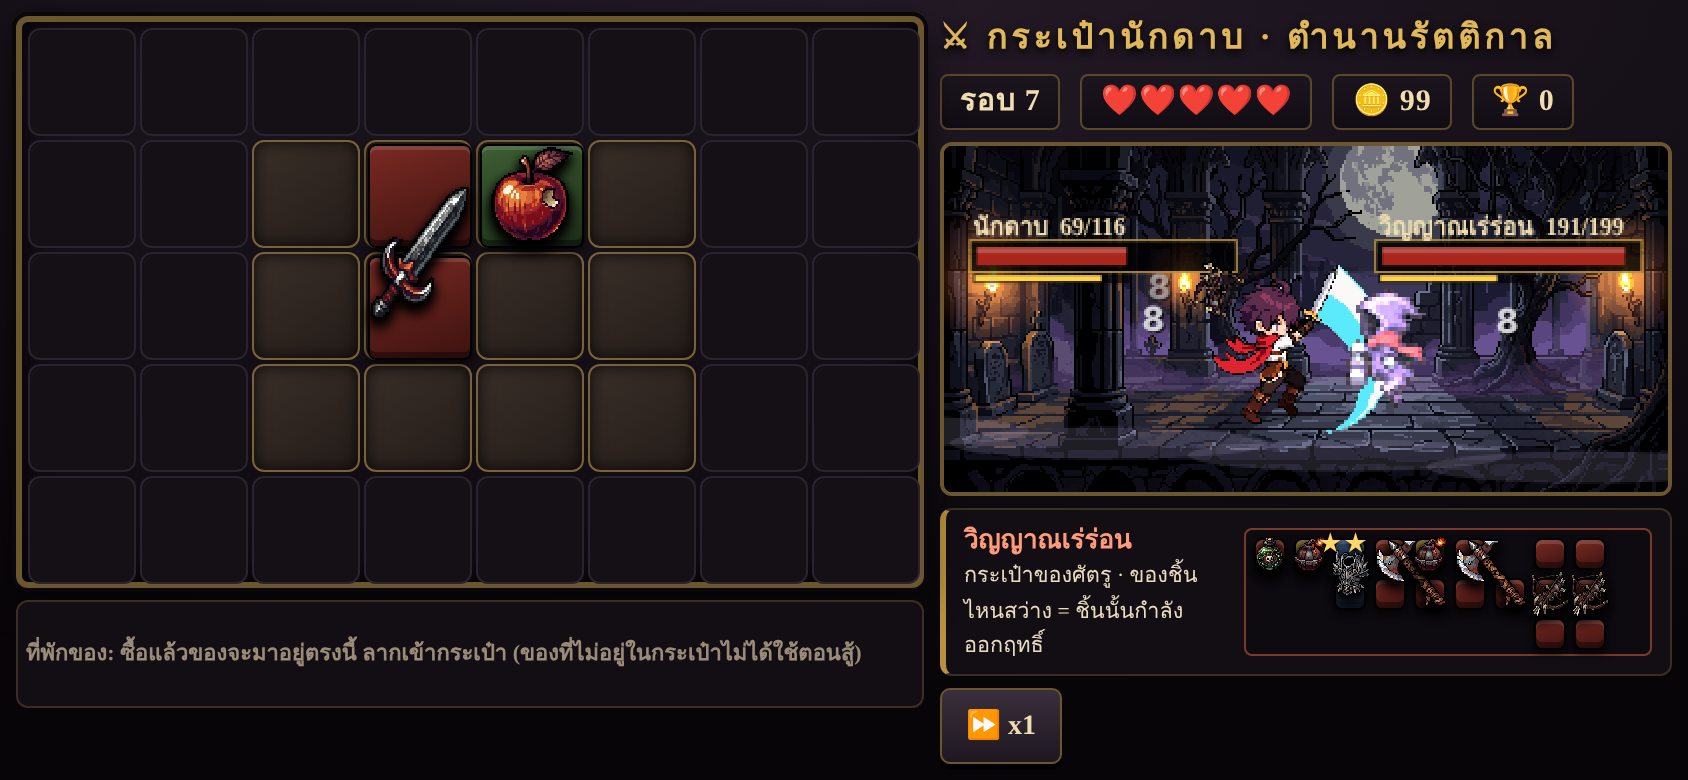
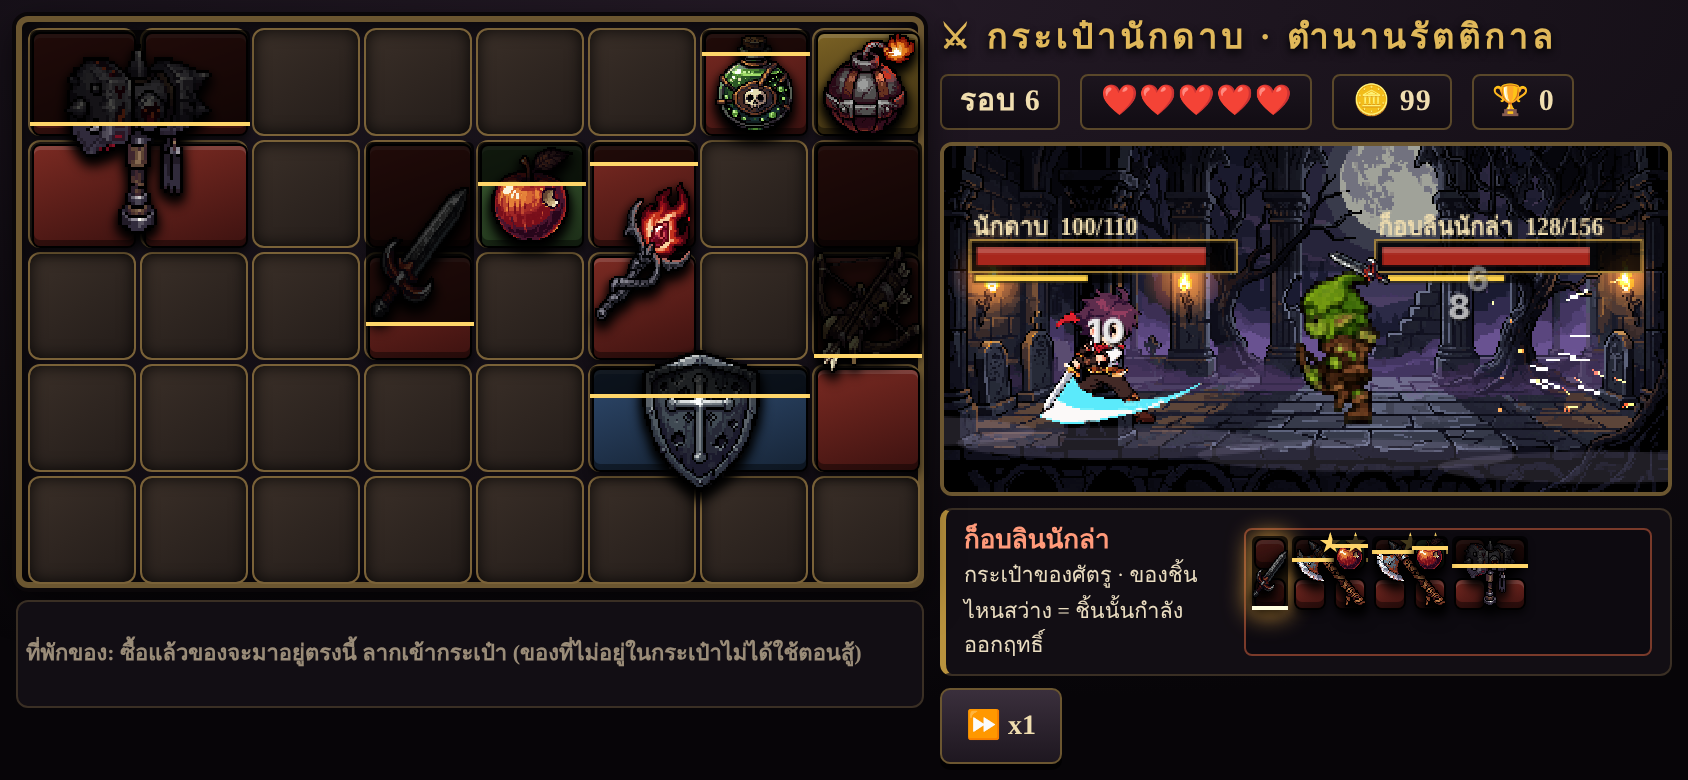
bag.html: cooldown shade on every working item, weapon / status effects from our fx sheets
Claude-Session: https://claude.ai/code/session_01TXxUxQ6wjWh66ESj3NLopA

diff --git a/bag.html b/bag.html
@@ -59,6 +59,7 @@ button{font-family:inherit;background:linear-gradient(#3a2f3c,#1e1720);border:1p
 h1{margin:0;font-size:17px;color:#e0b85a;letter-spacing:2px;text-shadow:0 2px 4px #000}
 .ico{display:inline-block;background:url(art/bag/icons.png) 0 0/800% 300% no-repeat;image-rendering:pixelated;vertical-align:middle;filter:drop-shadow(0 2px 2px #000)}
 .it b .ico{filter:drop-shadow(0 3px 3px #000c)}
+.it s{position:absolute;left:1px;right:1px;top:1px;background:#000b;border-bottom:2px solid #ffd66a;pointer-events:none;text-decoration:none;border-radius:3px 3px 0 0}.it s.wait{border-bottom-color:#ff5a3a;background:#3a0808b0}
 </style></head><body>
 <div id="app"><div id="left"><div id="grid"></div><div id="tray"></div></div>
 <div id="right"><h1>⚔ กระเป๋านักดาบ · ตำนานรัตติกาล</h1><div id="top"></div><div id="shop"></div><div id="arena"><canvas id="cv"></canvas><div id="foe"></div></div>
@@ -101,6 +102,9 @@ Object.keys(IT).forEach((k,i)=>{IT[k].id=k;IT[k].i=i});const ico=(id,px)=>{const
 const ICON=new Image();ICON.src='art/bag/icons.png';const ARENA=new Image();ARENA.src='art/bag/arena.png';
 const LM=[0,1,1.55,2.3,3],FOES=[['shroom','เห็ดต้องสาป'],['wolf','หมาป่าเงา'],['goblin_archer','ก็อบลินนักล่า'],['wisp','วิญญาณเร่ร่อน'],['skeleton','อัศวินกระดูก'],['boar_guard','องครักษ์อสูร'],['golem','โกเลมสุสาน']];
 const MOB={wolf:[50,38,6],shroom:[30,27,6],skeleton:[54,51,6],boar_guard:[74,69,6],goblin_archer:[45,41,6],golem:[80,70,6],wisp:[36,35,6]};
+// weapon effects: sprite sheets we already own in fx/ (manifest.json gives cell size, frames, anchor); drawn on the fighter that is hit / helped
+const FXI={},FXM={};fetch('fx/manifest.json').then(r=>r.json()).then(m=>{for(const k of['hit','crit','blunt','toxic','healring','cshield','blast','cfire0','gslam','zapice','blindstars','spark','poof']){FXM[k]=m[k];FXI[k]=new Image();FXI[k].src='fx/'+k+'.png'}});
+const WFX={dagger:['hit',1.5],sword:['hit',2],bow:['spark',1.6],axe:['crit',1.5],hammer:['gslam',2.2],wand:['blast',1.5],poison:['toxic',.9],bomb:['blast',3]};
 const FB=20,MELEE={dagger:[15,16,17],sword:[14,15,16,17],axe:[28,29,30,31],hammer:[39,40,41,42]},SPIN=[125,126,127,128,129,130];   // hero clips used for his own weapons: cells of chibi_pl.png (10+n = combo frame n, 120+ = spin)
 const GW=8,GH=5;let CS=52,G,UID=1,sel=null,spd=+(localStorage.getItem('bag.spd')||1),BT=null;
 const rot=(sh,r)=>{let c=sh.map(p=>p.slice());for(let i=0;i<r;i++)c=c.map(([x,y])=>[-y,x]);const mx=Math.min(...c.map(p=>p[0])),my=Math.min(...c.map(p=>p[1]));return c.map(([x,y])=>[x-mx,y-my])};
@@ -189,15 +193,18 @@ $('#rr').onclick=()=>{roll();draw()};$('#spd').onclick=()=>{spd=spd===1?2:spd===
 // ---- battle
 const HERO=new Image();HERO.src='art/poses/combo/chibi_pl.png';const MIM={};for(const k in MOB){MIM[k]=new Image();MIM[k].src='art/td/map1/mob_'+k+'.png'}
 function startBattle(){const mine=G.items.filter(o=>o.bag);if(!mine.some(o=>IT[o.id].t==='w'))return say('⚠ ในกระเป๋าไม่มีอาวุธเลย! ใส่อาวุธ (สีแดง) อย่างน้อย 1 ชิ้นก่อน');sel=null;
- BT={A:build(mine,74+G.round*6),B:foe(G.round),T:0,fx:[],pj:[],sh:0,an:null,ha:0,ea:0,hh:0,eh:0,done:0};draw();$('#foe').innerHTML='';say(`<div style="display:flex;gap:12px;align-items:center"><div style="flex:1"><b style="color:#ff9a7a">${BT.B.name}</b><br><small>กระเป๋าของศัตรู · ของชิ้นไหนสว่าง = ชิ้นนั้นกำลังออกฤทธิ์</small></div><div id="fbag" style="position:relative;flex:0 0 ${FB*10+4}px;height:${FB*3+4}px;background:#0d0a10;border:1px solid #7a3a2a;border-radius:4px"></div></div>`);
+ BT={A:build(mine,74+G.round*6),B:foe(G.round),T:0,fx:[],pj:[],sh:0,an:null,vf:[],ha:0,ea:0,hh:0,eh:0,done:0};draw();$('#foe').innerHTML='';say(`<div style="display:flex;gap:12px;align-items:center"><div style="flex:1"><b style="color:#ff9a7a">${BT.B.name}</b><br><small>กระเป๋าของศัตรู · ของชิ้นไหนสว่าง = ชิ้นนั้นกำลังออกฤทธิ์</small></div><div id="fbag" style="position:relative;flex:0 0 ${FB*10+4}px;height:${FB*3+4}px;background:#0d0a10;border:1px solid #7a3a2a;border-radius:4px"></div></div>`);
  for(const o of BT.B.list)if(!o.hide){const el=itemEl(o,FB);el.style.left=o.x*FB+2+'px';el.style.top=o.y*FB+2+'px';$('#fbag').appendChild(el)}last=0;requestAnimationFrame(loop)}
 let last=0;function loop(t){if(!BT)return;const dt=Math.min(.05,(t-last)/1000||0)*spd;last=t;const b=BT,ev=[];
  if(!b.done){let rem=dt;while(rem>0&&b.A.hp>0&&b.B.hp>0){const s=Math.min(.05,rem);tick(b.A,b.B,s,b.T,ev);b.T+=s;rem-=s}
-  for(const e of ev){const tx=e.k==='heal'||e.k==='blk'?e.s:1-e.s;if(e.k==='hit'){if(e.s===0){b.ha=.25;b.eh=.2}else{b.ea=.25;b.hh=.2}if(e.big||e.crit)b.sh=.12;const src=(e.s?b.B.list:G.items).find(o=>o.u===e.u);if(src){const ml=!e.s&&MELEE[src.id];if(ml){if(!b.an||b.an.t>b.an.d*.55)b.an={seq:e.crit?SPIN:(src.id==='sword'&&Math.random()<.5?[23,24,25,26]:ml),t:0,d:e.crit?.42:.3}}else b.pj.push({s:e.s,i:IT[src.id].i,t:0})}}
+  for(const e of ev){const tx=e.k==='heal'||e.k==='blk'?e.s:1-e.s;if(e.k==='hit'){if(e.s===0){b.ha=.25;b.eh=.2}else{b.ea=.25;b.hh=.2}if(e.big||e.crit)b.sh=.12;{const it=(e.s?b.B.list:G.items).find(o=>o.u===e.u),fx=it&&WFX[it.id];if(fx){b.vf.push({k:fx[0],s:1-e.s,t:it&&MELEE[it.id]&&!e.s?-.12:-.2,sc:fx[1]});if(it.id==='hammer')b.vf.push({k:'blunt',s:1-e.s,t:-.1,sc:2});}if(e.crit)b.vf.push({k:'crit',s:1-e.s,t:-.12,sc:2})}const src=(e.s?b.B.list:G.items).find(o=>o.u===e.u);if(src){const ml=!e.s&&MELEE[src.id];if(ml){if(!b.an||b.an.t>b.an.d*.55)b.an={seq:e.crit?SPIN:(src.id==='sword'&&Math.random()<.5?[23,24,25,26]:ml),t:0,d:e.crit?.42:.3}}else b.pj.push({s:e.s,i:IT[src.id].i,t:0})}}
+   if(e.k==='blk')b.vf.push({k:'cshield',s:e.s,t:0,sc:1.6,up:1});if(e.k==='heal')b.vf.push({k:'healring',s:e.s,t:0,sc:.9});
    b.fx.push({x:tx?.74:.26,t:0,v:e.k==='miss'?'พลาด':e.k==='blk'?'🛡+'+e.v:e.k==='heal'?'+'+e.v:e.v,c:e.k==='heal'?'#9fe870':e.k==='blk'?'#8fc8ff':e.k==='dot'?'#c88cff':e.crit?'#ffd24a':'#fff',big:e.crit||e.big,dx:R(-.05,.05)});
    if(e.u){const el=document.querySelector(`[data-u="${e.u}"]`);if(el){el.classList.add('fire');setTimeout(()=>el.classList.remove('fire'),140)}}}
   if(b.A.hp<=0||b.B.hp<=0||b.T>90){b.done=1;b.win=b.A.hp>0&&(b.B.hp<=0||b.A.hp>=b.B.hp);setTimeout(endBattle,900/spd)}}
- for(const k of['ha','ea','hh','eh','sh'])b[k]=Math.max(0,b[k]-dt/spd);if(b.an){b.an.t+=dt/spd;if(b.an.t>=b.an.d)b.an=null}for(const pj of b.pj)pj.t+=dt/spd;b.pj=b.pj.filter(pj=>pj.t<.24);for(const f of b.fx)f.t+=dt/spd;b.fx=b.fx.filter(f=>f.t<.9);paint(t/1000);requestAnimationFrame(loop)}
+ for(const k of['ha','ea','hh','eh','sh'])b[k]=Math.max(0,b[k]-dt/spd);for(const v of b.vf)v.t+=dt/spd;b.vf=b.vf.filter(v=>{const m=FXM[v.k];return m&&v.t<m.n/m.fps});
+  for(const[f,root]of[[b.A,'#grid'],[b.B,'#fbag']])for(const w of f.its)if(w.cd){let el=w.el;if(el===undefined){const it=document.querySelector(`${root} [data-u="${w.u}"]`);el=w.el=it?it.appendChild(document.createElement('s')):null}if(el){el.style.height=Math.max(0,1-w.t/w.cd)*96+'%';el.className=w.t>=w.cd&&f.sta<w.sta?'wait':''}}   // cooldown shade on every working item: it drains, the item fires when it is gone (red = waiting for stamina)
+ if(b.an){b.an.t+=dt/spd;if(b.an.t>=b.an.d)b.an=null}for(const pj of b.pj)pj.t+=dt/spd;b.pj=b.pj.filter(pj=>pj.t<.24);for(const f of b.fx)f.t+=dt/spd;b.fx=b.fx.filter(f=>f.t<.9);paint(t/1000);requestAnimationFrame(loop)}
 function scene(g,W,H,now,boss){const gy=H*.8;
  if(ARENA.width){const k=Math.max(W/480,H/272),w=480*k,h=272*k,x0=(W-w)/2,y0=H-h;g.drawImage(ARENA,x0,y0,w,h);   // PixelLab backdrop (1 credit); torches flicker, fog drifts, boss rounds turn red
   g.globalCompositeOperation='lighter';for(const[tx,ty]of[[30,128],[158,128],[452,128]]){const fl=.7+.3*Math.sin(now*11+tx),rg=g.createRadialGradient(x0+tx*k,y0+ty*k,0,x0+tx*k,y0+ty*k,46*k*fl);rg.addColorStop(0,'rgba(255,150,60,.45)');rg.addColorStop(1,'rgba(255,90,20,0)');g.fillStyle=rg;g.fillRect(x0+(tx-50)*k,y0+(ty-50)*k,100*k,100*k)}g.globalCompositeOperation='source-over';
@@ -220,6 +227,10 @@ function paint(now){const cv=$('#cv'),r=cv.getBoundingClientRect(),W=cv.width=Ma
  for(const pj of b.pj){const k2=Math.min(1,pj.t/.22),x0=pj.s?W*.74:W*.26,x1=pj.s?W*.3:W*.7,x=x0+(x1-x0)*k2,y=gy-H*.3-Math.sin(k2*3.14)*H*.16;const z=H*.16;g.save();g.translate(x,y);g.rotate((pj.s?-1:1)*k2*5);if(ICON.width)g.drawImage(ICON,pj.i%8*64,(pj.i>>3)*64,64,64,-z/2,-z/2,z,z);g.restore()}
  if(b.B.boss&&b.B.hp>0){const a=g.createRadialGradient(W*.74,gy-H*.2,0,W*.74,gy-H*.2,H*.42);a.addColorStop(0,'rgba(255,60,30,'+(.3+.12*Math.sin(now*5))+')');a.addColorStop(1,'rgba(255,60,30,0)');g.fillStyle=a;g.fillRect(W*.5,0,W*.5,H)}
  const M=MOB[b.B.k],mi=MIM[b.B.k];if(mi.width){const s=k*(b.B.boss?2.6:1.9)*(b.B.hp<=0?.6:1),f=(now*8|0)%M[2],x=W*.74-(b.ea>0&&b.B.hp>0?Math.sin((1-b.ea/.25)*3.14)*W*.2:0)+(b.eh>0?W*.03*b.eh/.2:0);g.save();g.translate(x,gy);g.scale(-s,s);g.filter=b.eh>0?'brightness(2.6)':'brightness(.82) contrast(1.15)';g.globalAlpha=b.B.hp<=0?.4:1;g.drawImage(mi,f*M[0],0,M[0],M[1],-M[0]/2,-M[1],M[0],M[1]);g.restore()}
+{const dv=(v,X,Y)=>{const m=FXM[v.k],im=FXI[v.k];if(!m||!im.width||v.t<0)return;const f=Math.min(m.n-1,v.t*m.fps|0),z=v.sc*k*.75;g.drawImage(im,f%m.cols*m.w,(f/m.cols|0)*m.h,m.w,m.h,X-m.ax*z,Y-m.ay*z,m.w*z,m.h*z)};
+  g.globalCompositeOperation='lighter';for(const v of b.vf)dv(v,W*(v.s?.74:.26),gy-(v.k==='gslam'||v.k==='healring'?0:H*.16));g.globalCompositeOperation='source-over';
+  for(const[f,x]of[[b.A,W*.26],[b.B,W*.74]]){if(f.hp<=0)continue;if(f.stun>0)dv({k:'blindstars',t:now%1,sc:2.4},x,gy-H*.36);if(f.burn>0){g.globalCompositeOperation='lighter';dv({k:'cfire0',t:(now*1.3)%.4,sc:1.2+Math.min(1.5,f.burn*.15)},x+6,gy-H*.06);g.globalCompositeOperation='source-over'}
+   if(f.poi>0){g.fillStyle='#7fe04a';for(let i=0;i<4;i++){const q=(now*.9+i*.25)%1;g.globalAlpha=1-q;g.fillRect(x-14+i*9,gy-H*.1-q*H*.2,3,3)}g.globalAlpha=1}}}
  g.textAlign='center';for(const f of b.fx){g.font=`800 ${f.big?26:17}px system-ui`;g.globalAlpha=Math.max(0,1-f.t/.9);g.fillStyle='#000';g.fillText(f.v,W*(f.x+f.dx)+1,gy-70*k*.5-f.t*60+1);g.fillStyle=f.c;g.fillText(f.v,W*(f.x+f.dx),gy-70*k*.5-f.t*60)}g.globalAlpha=1;
  if(b.T>28&&!b.done){g.setTransform(1,0,0,1,0,0);g.font='700 13px Georgia,serif';g.fillStyle='#ffb0a0';g.fillText('⏳ เหนื่อยล้า! ทั้งคู่เสียเลือดเรื่อยๆ',W/2,H*.16)}}
 function endBattle(){const b=BT;BT=null;const win=b.win,pig=G.items.filter(o=>o.bag&&IT[o.id].gold).reduce((s,o)=>s+o.lv,0),inc=9+Math.min(6,G.round>>1)+(win?2:0)+pig;let h;

diff --git a/docs/action-game.md b/docs/action-game.md
@@ -1201,3 +1201,4 @@ Not done: sound, enemy bag shown as a grid, item unlocks between runs, more enem
 bag.html dark fantasy pass (owner, going to sleep: "แนวต่อสู้นะ backpack · ทำสวยๆ น่าเล่นด้วย · อาร์ตดีๆ · ดาร์กแฟนตาซี"): free skin only, NO PixelLab (no "เจน" was said): near-black / iron / old-gold panels, serif type, bevelled item tiles in dark jewel colours, rarity glows; the arena is painted by code (`scene`: night sky, moon, stars, broken pillars, flickering torches, drifting fog; red sky + aura on boss rounds); the item that acts flies across as a spinning projectile, shake on big hits, darker monsters, dark-fantasy names (ตำนานรัตติกาล). Still emoji for the item icons = the weak point for "good art". Proposal waiting for the owner's "เจน": 24 item icons as dark-fantasy pixel art with `create_image_pixen` 64x64, no background, 1 credit each = 24 credits, plus 1-2 for an arena backdrop; standard mode only.
 bag.html now uses the generated art: `ico(id, px)` = a sprite from `art/bag/icons.png` (bag tiles, shop cards, info line, enemy item list, flying projectiles), `art/bag/arena.png` as the battle backdrop with code torch flicker / fog / red multiply on boss rounds (the code-painted scene stays as a fallback). Hero and monsters unchanged. Still open: the hero's real combo in the fight, the enemy's bag shown as a grid, sound, human play-testing of the difficulty.
 bag.html fight pass (owner "ทำข้อ 2 กับ 3 ต่อเลย", free): (2) his melee items (dagger, sword, axe, hammer; `MELEE`) make the swordsman dash at the enemy and play a matching slash from his PixelLab combo (`b.an`: side slash / rising cut / overhead chop / finisher; a crit plays the spin clip `SPIN`), with PixelLab's own arcs; ranged and thrown items still fly as icons; the enemy lunges when it hits and is knocked back when hit. (3) the enemy's items are packed into a 10x3 mini bag shown under the arena (`#fbag`, cell `FB` 20 px), each piece lighting up when it acts; layout is for show, its stats are built without neighbour bonuses. Tested by script: slash clips play, 8 of 8 enemy items shown, no errors.
+bag.html (owner "ให้แสดงเอฟเฟคอาวุธด้วย ทำเป็นช่วงเวลา ไอเทมทำงาน", free): every working item (ours in the grid, the enemy's in `#fbag`) carries a cooldown shade (`.it s`) that drains from full to nothing, the item fires when it is gone; red = ready but waiting for stamina. Weapon effects from our own `fx/` sheets (`WFX`, `FXM` from `fx/manifest.json`, drawn additively on the fighter that is hit): dagger / sword hit sparks, bow spark, axe crit burst, hammer ground ring + blunt, wand and bomb explosions, poison cloud, any crit = crit burst, shield = shield bubble on the user, food = heal ring; while stunned stars circle the head, while burning a flame flickers at the feet, while poisoned green drops rise.
